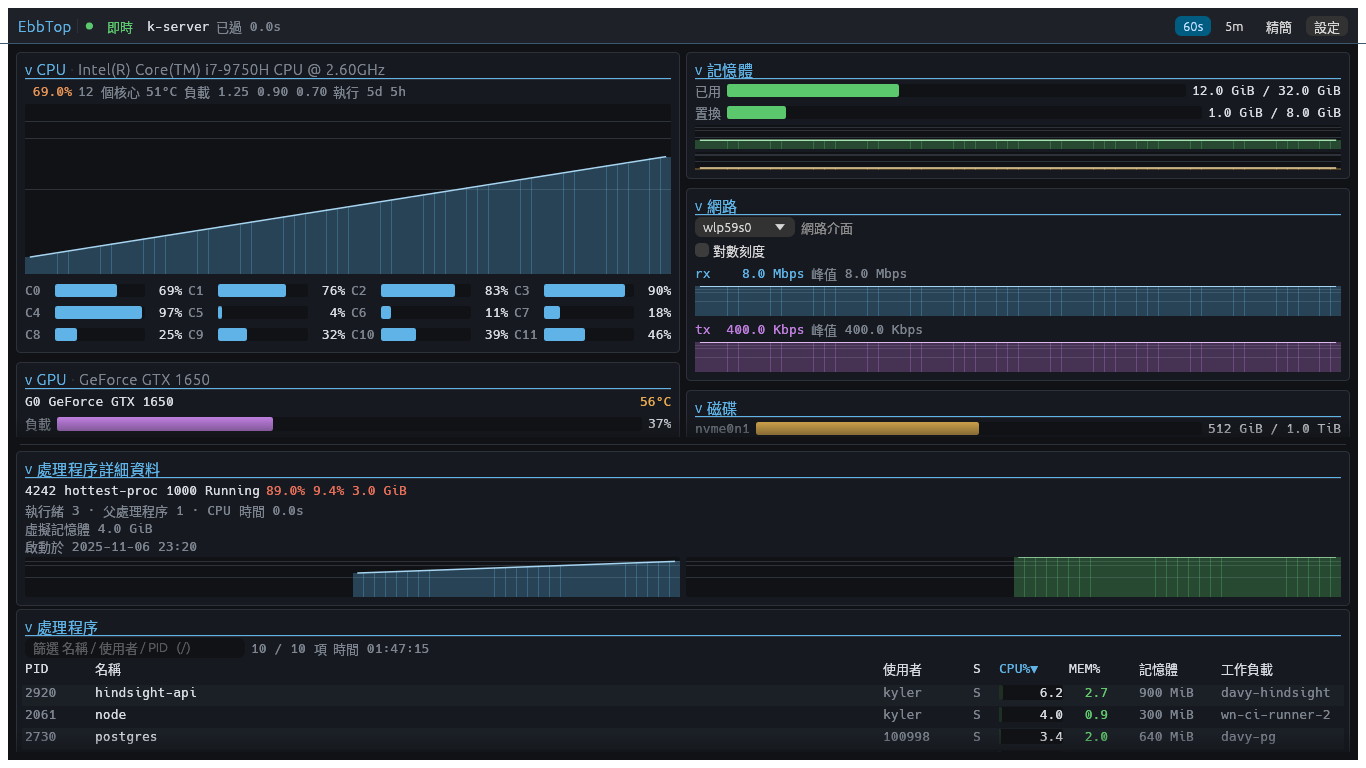
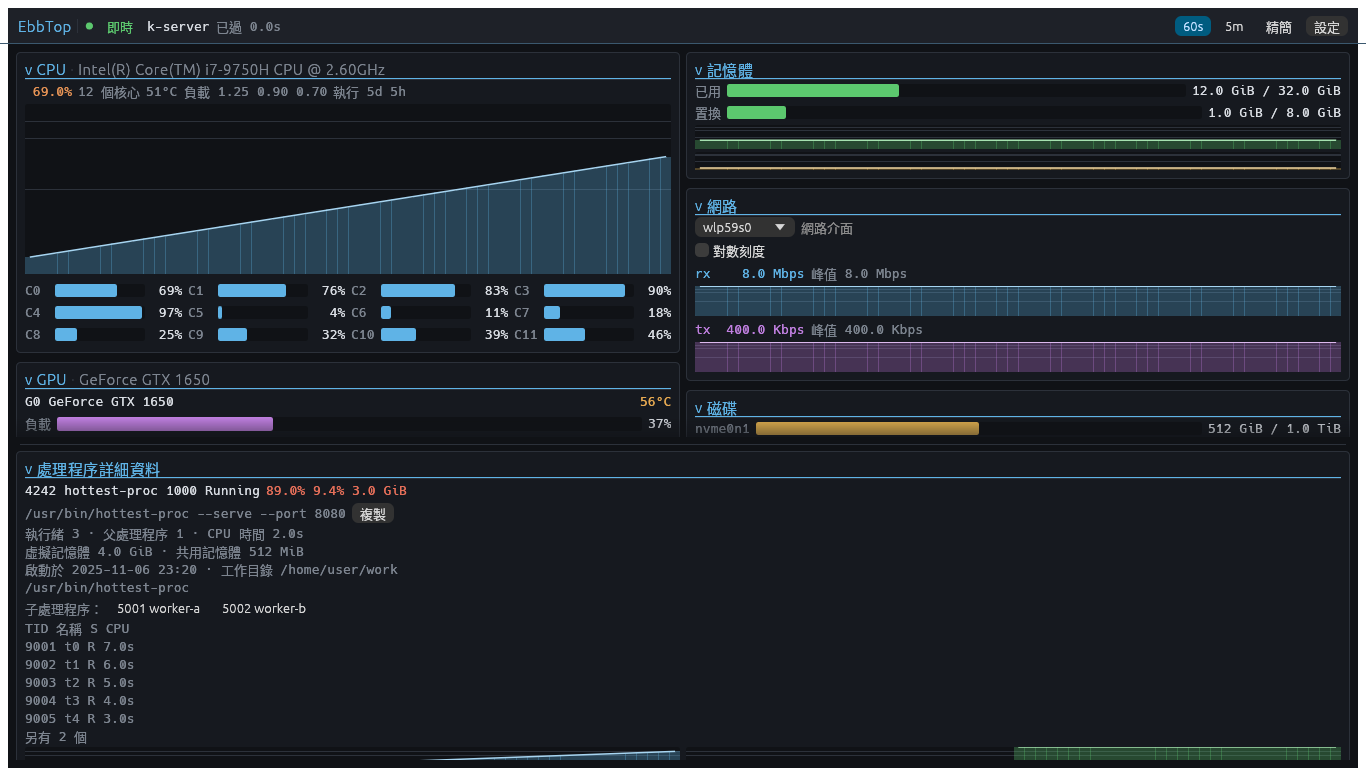
store: populate the detail-inspector screenshots from a real agent payload (#5)
The detail scenes rendered the base fixture, which reports cpu_time 0, no cwd,
no exe and no children: the listing screenshot showed "cpu 0.0s" and an empty
facts block. A store screenshot must not show a feature looking broken.

Call the existing `rich_detail` helper from the three detail scenes instead of
changing the shared base fixture. That helper already exists and is what the
detail-pane tests assert against, so the screenshot and the tests agree, and the
empty-state tests (proc_detail_hides_empty_threads_and_children) keep passing
against an unmodified base fixture.

The first attempt enriched fake_state directly and broke four tests that assert
the empty detail state. That was the fixture being shared, not a product bug,
and this is the fix.

Verified: cargo test -p ebbtop-gui 198 passed, 0 failed; every detail scene
re-inspected (English, zh-CN, zh-TW) with CPU time 2.0s, cwd, exe, two children
and five threads plus "+2 more", no tofu and no overlap.

diff --git a/crates/ebbtop-gui/src/app.rs b/crates/ebbtop-gui/src/app.rs
@@ -5212,13 +5212,16 @@ mod tests {
         }
         // 5. A selected process, so the detail inspector is on screen: command
         //    line, CPU time, cwd/exe, children, threads and the history graphs.
-        //    `selected` drives the pane; the fixture supplies 4242's history.
+        //    `selected` drives the pane; the fixture supplies 4242's history, and
+        //    `rich_detail` fills the facts a real agent reports so the listing
+        //    never shows an empty row (0.0s CPU time, no cwd, no children).
         {
             let mut app = App::with(Config::default(), Some("t".into()), TokenSource::Env, None);
             app.onboard = None;
             let now = client::now_ms() + 60_000;
             fake_state(&app, now);
             workload_rows(&app, now);
+            rich_detail(&app);
             app.selected = Some(4242);
             shot("ebbtop-store-1366x768-process-detail.png", app);
         }
@@ -5258,6 +5261,7 @@ mod tests {
             let now = client::now_ms() + 60_000;
             fake_state(&app, now);
             workload_rows(&app, now);
+            rich_detail(&app);
             app.selected = Some(4242);
             shot(&format!("ebbtop-store-1366x768-process-detail-{suffix}.png"), app);
         }
